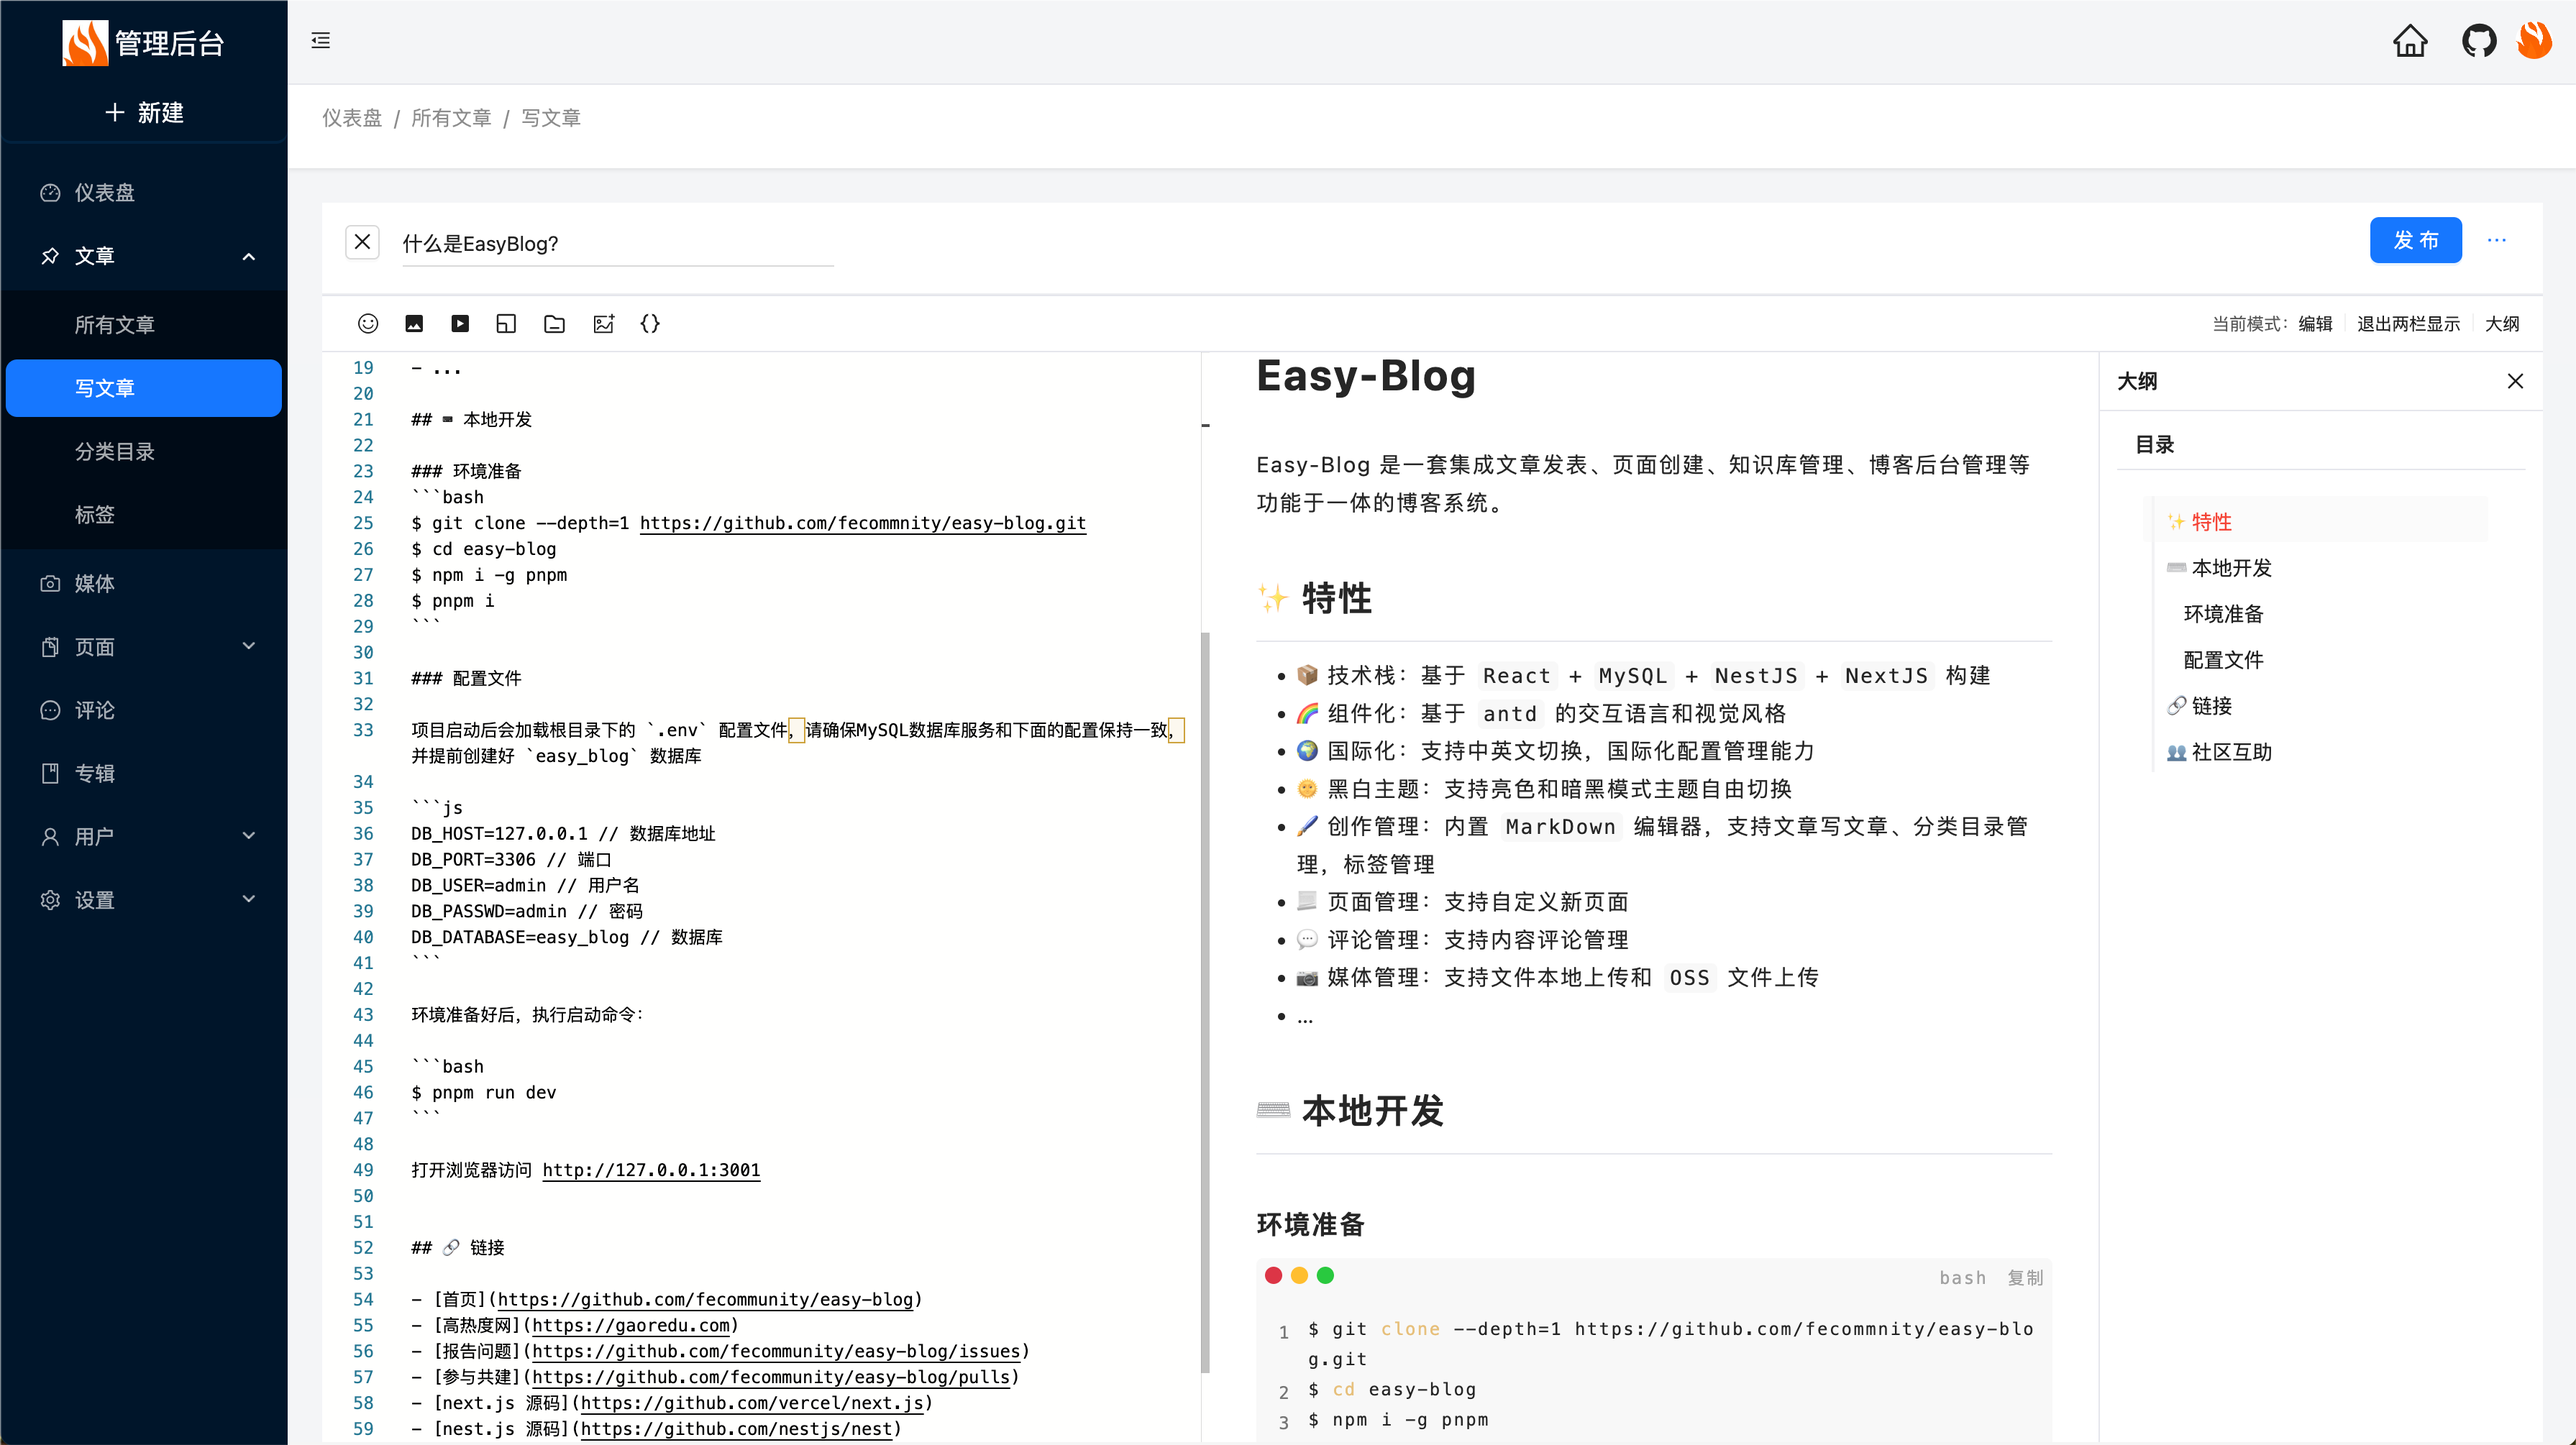
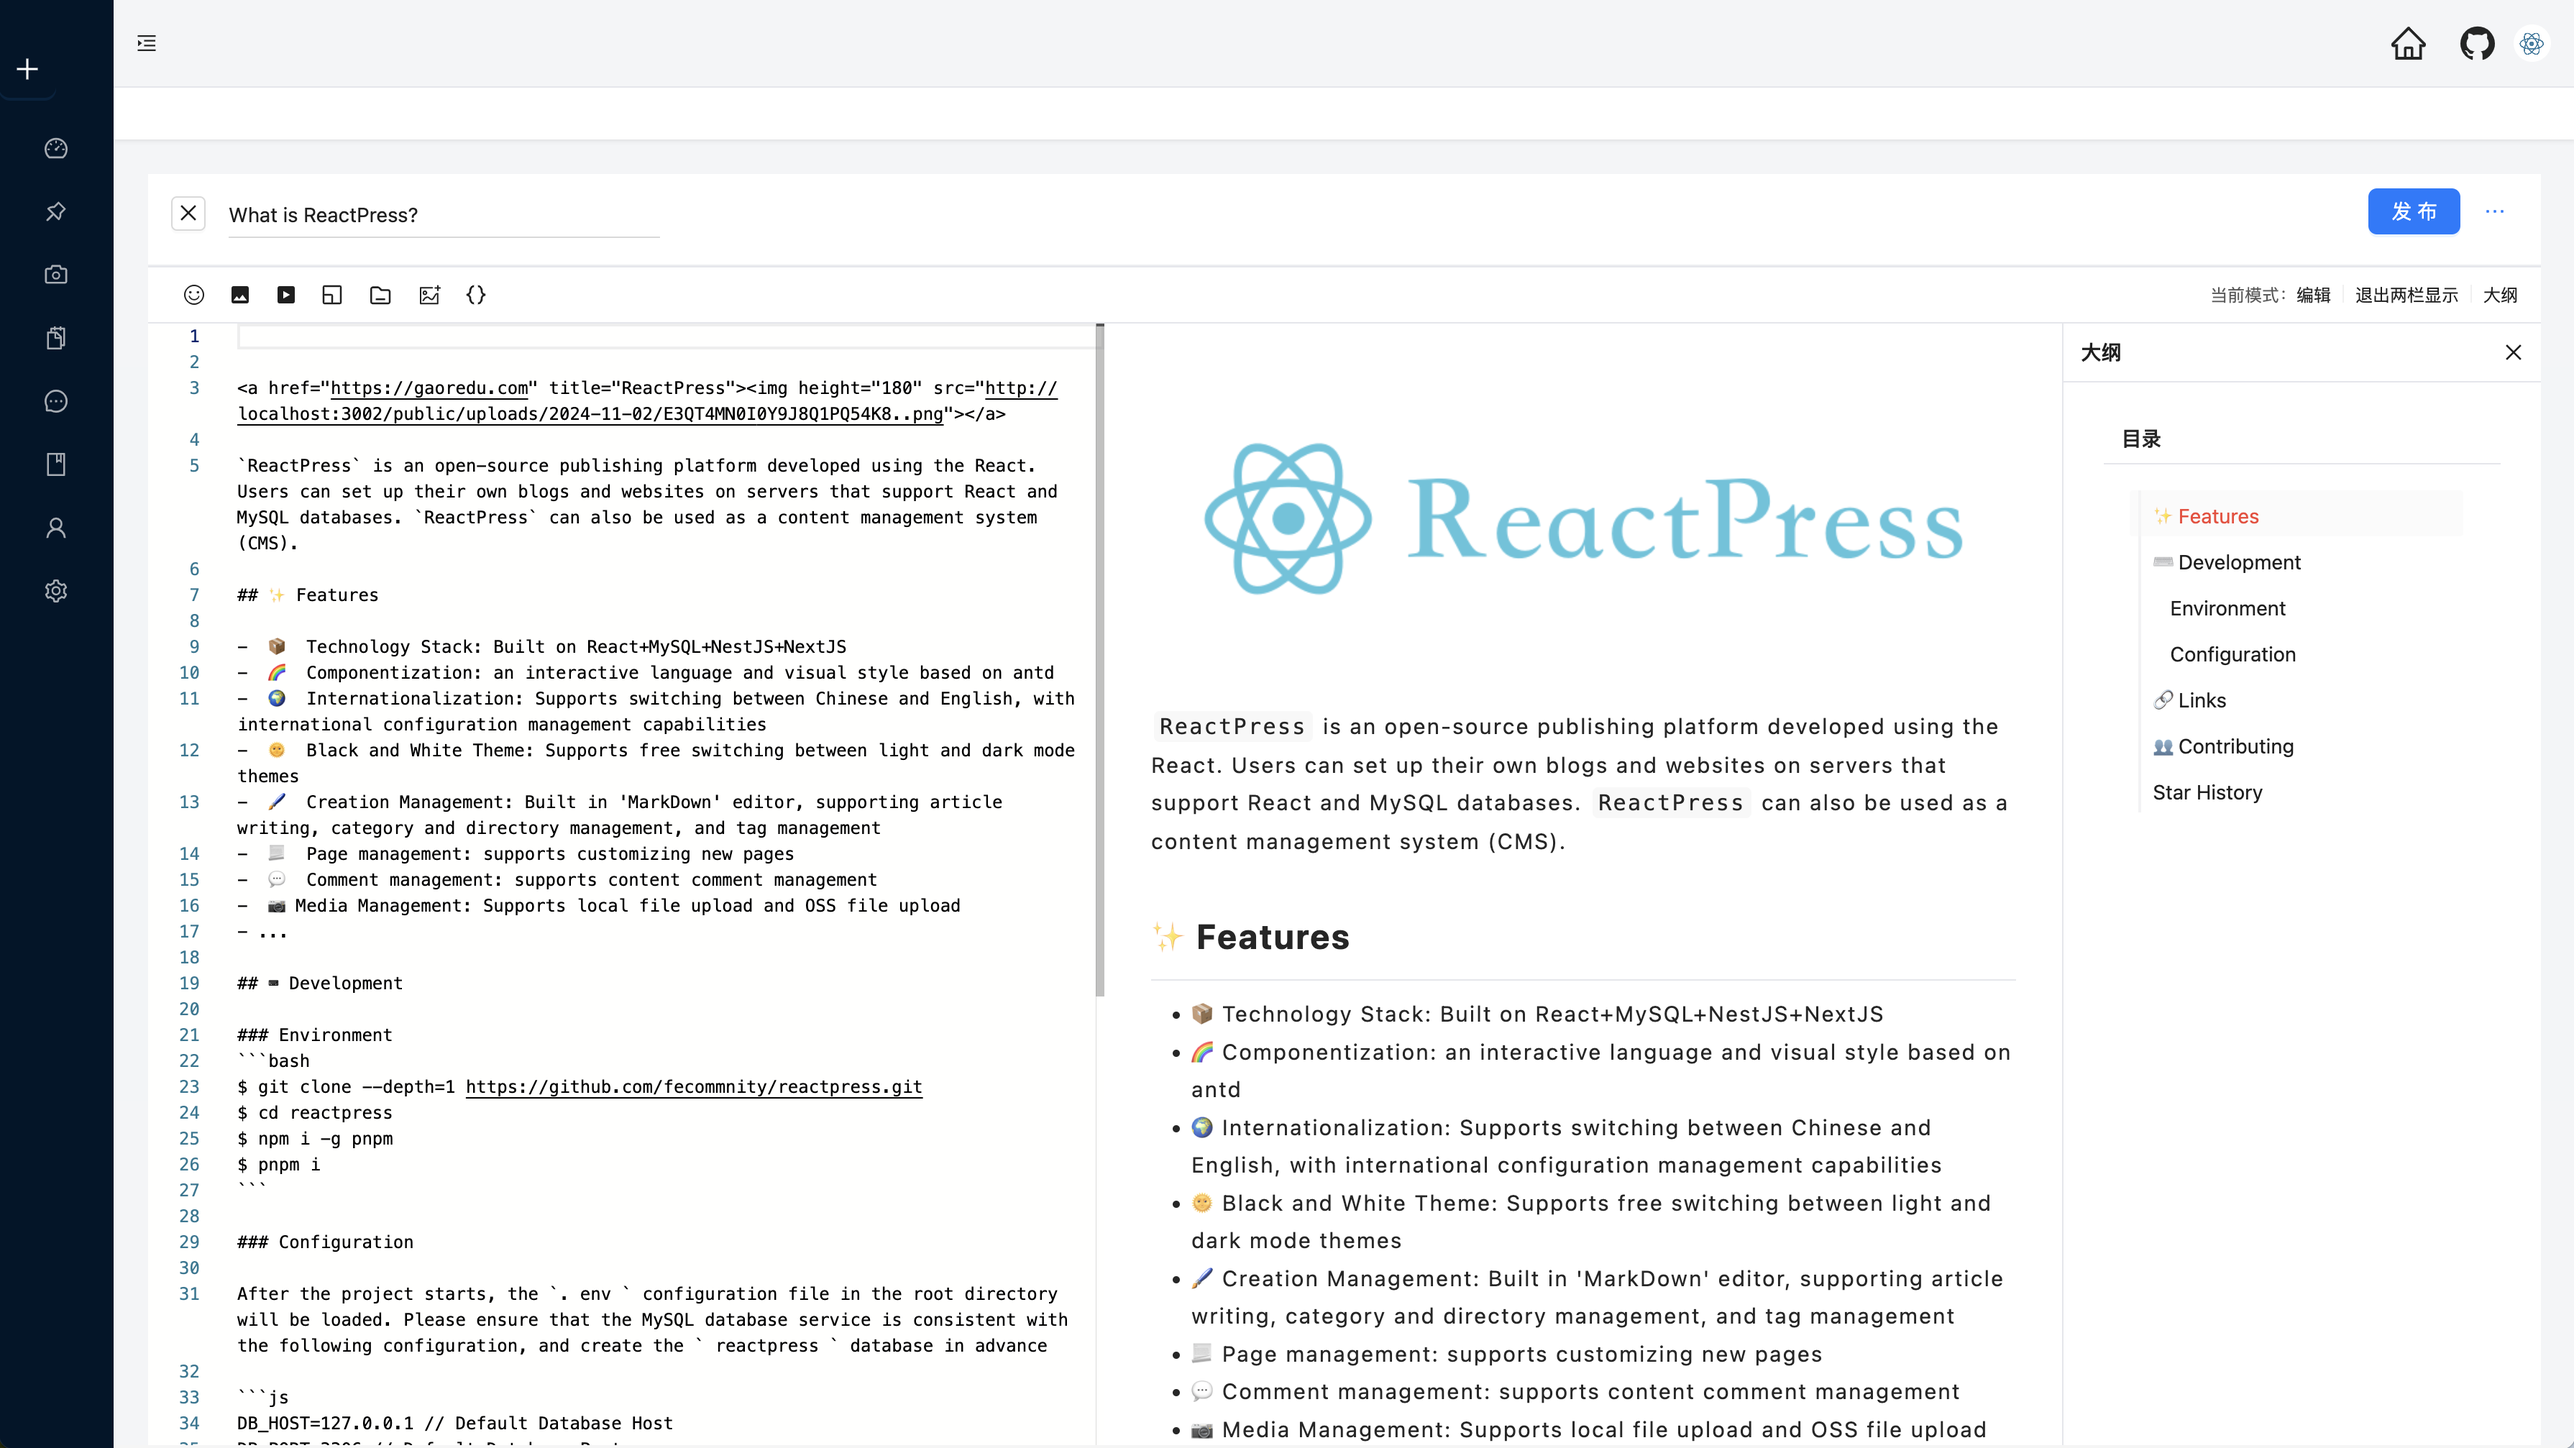
docs: update readme doc

diff --git a/README.md b/README.md
@@ -1,30 +1,26 @@
 <div align="center"><a name="readme-top"></a>
 
-<a href="https://gaoredu.com" title="高热度网"><img height="180" src="https://www.gaoredu.com/wp-content/uploads/2023/10/logo.png"></a>
+<a href="https://gaoredu.com" title="ReactPress"><img height="180" src="./public/logo.png"></a>
 
-<h1>Easy-Blog</h1>
+`ReactPress` is an open-source publishing platform developed using the React. Users can set up their own blogs and websites on servers that support React and MySQL databases. `ReactPress` can also be used as a content management system (CMS).
 
-Easy-Blog is a very easy blog system that integrates article publishing, page creation, knowledge management, blog management and other functions.
+[![GitHub license](https://img.shields.io/badge/license-Apache-blue.svg)](https://github.com/fecommunity/reactpress/blob/master/LICENSE)[![(Runtime) Build and Test](https://github.com/facebook/react/actions/workflows/runtime_build_and_test.yml/badge.svg)](https://github.com/fecommunity/reactpress/blob/master/package.json) [![(Compiler) TypeScript](https://github.com/facebook/react/actions/workflows/compiler_typescript.yml/badge.svg?branch=main)](https://github.com/fecommunity/reactpress/blob/master/client/tsconfig.json) [![PRs Welcome](https://img.shields.io/badge/PRs-welcome-brightgreen.svg)](https://github.com/fecommunity/reactpress/pulls)
 
-[![GitHub license](https://img.shields.io/badge/license-Apache-blue.svg)](https://github.com/fecommunity/easy-blog/blob/master/LICENSE)[![(Runtime) Build and Test](https://github.com/facebook/react/actions/workflows/runtime_build_and_test.yml/badge.svg)](https://github.com/fecommunity/easy-blog/blob/master/package.json) [![(Compiler) TypeScript](https://github.com/facebook/react/actions/workflows/compiler_typescript.yml/badge.svg?branch=main)](https://github.com/fecommunity/easy-blog/blob/master/client/tsconfig.json) [![PRs Welcome](https://img.shields.io/badge/PRs-welcome-brightgreen.svg)](https://github.com/fecommunity/easy-blog/pulls)
-
-[Issues](https://github.com/fecommunity/easy-blog/issues) · [Pull Request](https://github.com/fecommunity/easy-blog/pulls) · English · [中文](./README-zh_CN.md)
+[Issues](https://github.com/fecommunity/reactpress/issues) · [Pull Request](https://github.com/fecommunity/reactpress/pulls) · English · [中文](./README-zh_CN.md)
 </div>
 
-Light Theme
-[![Home-Light Theme](./public/en-home-light.png)](https://gaoredu.com)
+- Blog Management
 
-Dark Theme
-[![Home-Dark Theme](./public/en-home-dark.png)](https://gaoredu.com)
+[![Blog Management](./public/admin.png)](https://gaoredu.com)
 
-Blog Category
-[![Blog Category](./public/category.png)](https://gaoredu.com)
+- Article Reading
 
-Blog Reading
 [![Blog Management](./public/en-reading.png)](https://gaoredu.com)
 
-Blog Management
-[![Blog Management](./public/admin.png)](https://gaoredu.com)
+- Mobile Phone
+
+[![Mobile Phone](./public/mobile.png)](https://gaoredu.com)
+
 
 ## ✨ Features
 
@@ -42,22 +38,22 @@ Blog Management
 
 ### Environment
 ```bash
-$ git clone --depth=1 https://github.com/fecommnity/easy-blog.git
-$ cd easy-blog
+$ git clone --depth=1 https://github.com/fecommnity/reactpress.git
+$ cd reactpress
 $ npm i -g pnpm
 $ pnpm i
 ```
 
 ### Configuration
 
-After the project starts, the `. env ` configuration file in the root directory will be loaded. Please ensure that the MySQL database service is consistent with the following configuration, and create the ` easy-blog ` database in advance
+After the project starts, the `. env ` configuration file in the root directory will be loaded. Please ensure that the MySQL database service is consistent with the following configuration, and create the ` reactpress ` database in advance
 
 ```js
 DB_HOST=127.0.0.1 // Default Database Host
 DB_PORT=3306 // Default Database Port
-DB_USER=admin // Default Username
-DB_PASSWD=admin // Default Password
-DB_DATABASE=easy_blog // Default Database Name
+DB_USER=reactpress // Default Username
+DB_PASSWD=reactpress // Default Password
+DB_DATABASE=reactpress // Default Database Name
 ```
 
 After the environment is ready, execute the startup shell:
@@ -71,10 +67,10 @@ Open your browser and visit http://127.0.0.1:3001
 
 ## 🔗 Links
 
-- [Home](https://github.com/fecommunity/easy-blog)
+- [Home](https://github.com/fecommunity/reactpress)
 - [Easy Blog](https://gaoredu.com)
-- [Issues](https://github.com/fecommunity/easy-blog/issues)
-- [Pull Request](https://github.com/fecommunity/easy-blog/pulls) 
+- [Issues](https://github.com/fecommunity/reactpress/issues)
+- [Pull Request](https://github.com/fecommunity/reactpress/pulls) 
 - [next.js](https://github.com/vercel/next.js)
 - [nest.js](https://github.com/nestjs/nest)
 
@@ -94,4 +90,4 @@ You can also send me an email: admin@gaoredu.com
 
 ## Star History
 
-[![Star History Chart](https://api.star-history.com/svg?repos=fecommunity/easy-blog&type=Date)](https://star-history.com/#fecommunity/easy-blog&Date)
+[![Star History Chart](https://api.star-history.com/svg?repos=fecommunity/reactpress&type=Date)](https://star-history.com/#fecommunity/reactpress&Date)
